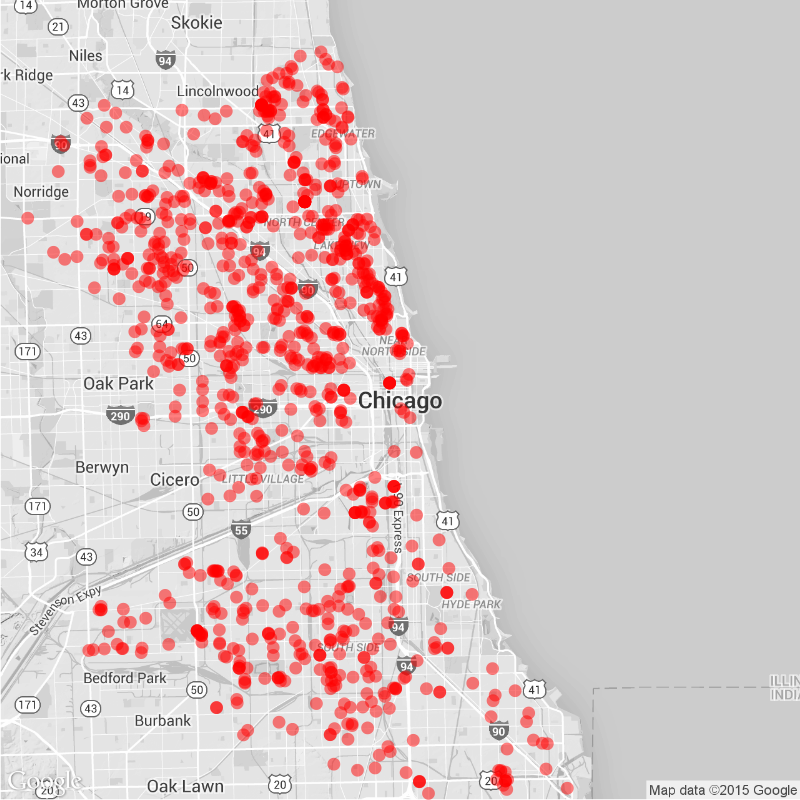
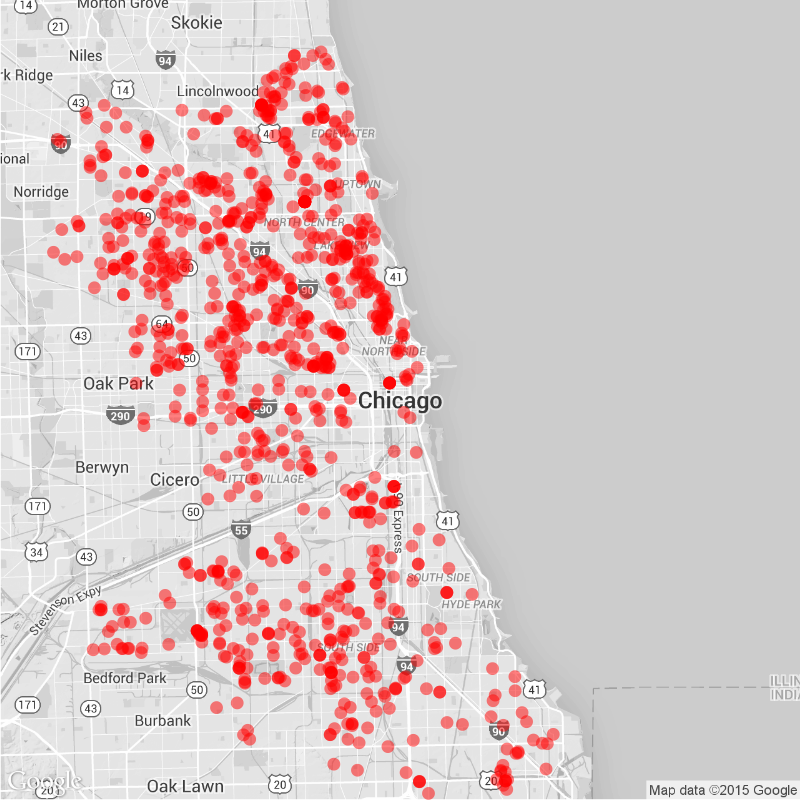
Daily Maps

diff --git a/daily.md b/daily.md
@@ -15,22 +15,22 @@ tags: Chicago NYC weekly daily rats
 
 ### Daily
 
-Yesterday (September 14), there were 197 calls to Chicago's 311 line about rats.
+Yesterday (September 15), there were 198 calls to Chicago's 311 line about rats.
 ![Chicago rat calls to 311 weekly map]({{ site.cityimages }}/daily/Chicago_Rat_Map_Daily.png)
 
 ### Weekly
-Between September 08 and September 14, there were 1055 calls to Chicago's 311 line about rats. The average number of weekly calls for this time of year is 866.
+Between September 09 and September 15, there were 1034 calls to Chicago's 311 line about rats. The average number of weekly calls for this time of year is 850.
 ![Chicago rat calls to 311 weekly map]({{ site.cityimages }}/daily/Chicago_Rat_Map_Weekly.png)
 ***
 # New York City <a id="nyc"><a>
 
 ### Daily
 
-Yesterday (September 14), there were 0 calls to New York City's 311 line about rats.
+Yesterday (September 15), there were 0 calls to New York City's 311 line about rats.
 ![NYC rat calls to 311 weekly map]({{ site.cityimages }}/daily/NYC_Rat_Map_Daily.png)
 
 ### Weekly
-Between September 08 and September 14, there were 0 calls to New York City's 311 line about rats. The average number of weekly calls for this time of year is 250.
+Between September 09 and September 15, there were 0 calls to New York City's 311 line about rats. The average number of weekly calls for this time of year is 253.
 ![NYC rat calls to 311 weekly map]({{ site.cityimages }}/daily/NYC_Rat_Map_Weekly.png)
 
 Each red dot represents one call about a rat seen in that location. The dots are transparent, so multiple calls from one location will be seen as a solid dot. The usual caveats apply: more calls do not necessarily mean that there are more rats in that location than other parts of the city. A cluster of dots could indicate that one resident is unusually vocal about rodents in his or her neighborhood. Also, more densely populated neighborhoods tend to make more calls to 311.
